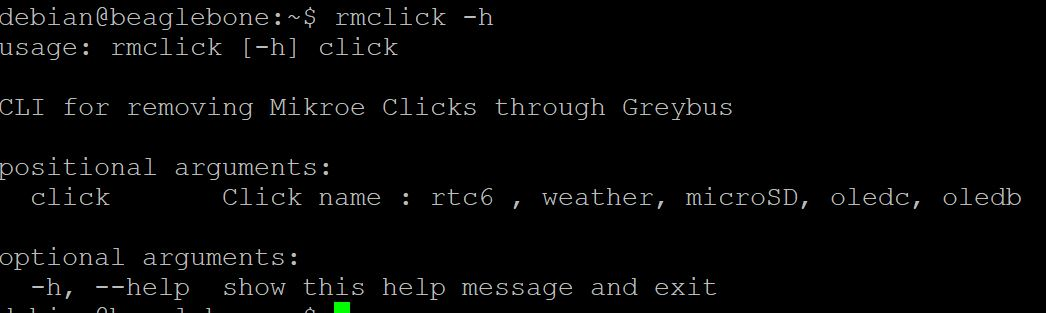
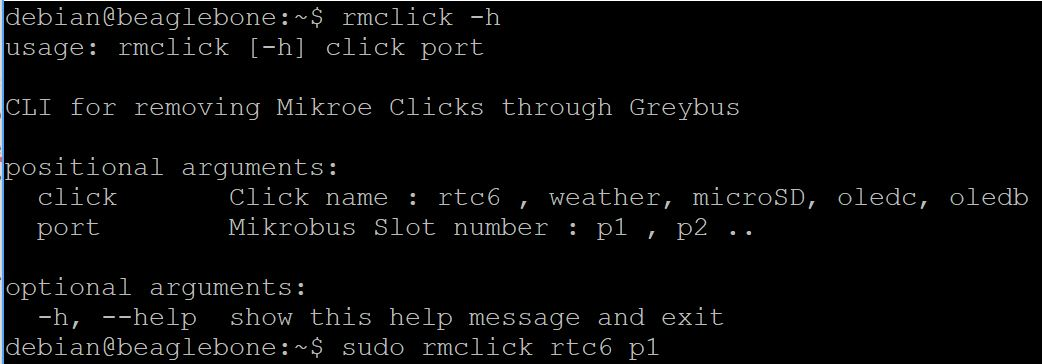
update documentation according to changes in gbsim

diff --git a/mpu9dof.html b/mpu9dof.html
@@ -108,29 +108,27 @@
                         Beaglebone Black, This post assumes that GBSIM is correctly installed and setup in your board.MPU 9DOF click carries the MPU–9250 System in Package, which is the world’s first 9-axis Motion Tracking device. MPU–9250 comprises two chips. One is the MPU–6050 that contains a 3-axis accelerometer, a 3-axis gyroscope, and a DMP (digital motion processor); the other is AK8975, a 3-axis digital compass. It is designed for the low power, low cost, and high-performance requirements of consumer electronics equipment and wearable sensors. 
                         <h3>Start GBSIM</h3>
     
-                        <p> Before inserting the click manifest start gbsim wither using the start script or by separately modprobe the modules and running gbsim.</p>
+                        <p> Before inserting the click manifest start gbsim(if not already running as service) whether using the start script or by separately modprobe the modules and running gbsim.</p>
 
-<pre><code>sudo sh startgbsim.sh</code></pre>
+<pre><code>sudo startgbsim</code></pre>
 
 <h3>Insert the Click Manifest using the CLI</h3>
 <p>Clone and setup the insclick CLI along with the manifesto tool and create the manifest blobs</p>
 
 <pre><code>git clone https://github.com/vaishnav98/manifesto.git
- cd manifesto
-./manifesto -o manifests/i2c1.mnfb manifests/i2c1.mnfs
-./manifesto -o manifests/gpio.mnfb manifests/gpio.mnfs
-./manifesto -o manifests/i2c2.mnfb manifests/i2c2.mnfs
-sudo cp manifests/i2c1.mnfb /tmp/gbsim/hotplug-module/
-sudo cp manifests/gpio.mnfb /tmp/gbsim/hotplug-module/</code></pre>
+cd manifesto
+sudo sh ./install.sh</code></pre>
 
 <h3>Clone and Compile the Mikrobus Kernel Module</h3>
-<p>Clone and setup the  Mikrobus Kernel Module , connect the click to the corresponding slot and instantiate the mpu9dof click on the greybus i2c bus</p>
+<p>Clone and setup the  Mikrobus Kernel Module </p>
 
 <pre><code>git clone https://github.com/vaishnav98/mikrobus_device.git
  cd mikrobus_device
- make -C /usr/src/linux-headers-4.14.108-ti-r108/ M=$PWD
- sudo insmod mikrobus.ko
- sudo insmod mikrobus_i2c_device.ko name=mpu9dof port=PBP1</code></pre>
+ make all install</code></pre>
+
+ <p> Now Connect the Click Board to the corresponding slot and then using the insclick CLI the click can be easily interfaced</p>
+
+<pre><code>sudo insclick mpu9dof p1</code></pre>
 
 <h3>Output</h3>
 
@@ -151,6 +149,14 @@ cat /sys/bus/iio/devices/iio\:device1/in_temp_raw</code></pre>
 The output should be similar to this: 
 <img src="images/post/mpuout.JPG" alt="">
 
+<h3>Unloading the Click</h3>
+
+
+<p>The rmclick utility/command can be used to remove/free the Greybus Interface and Unload the Click, the rmclick usage is: </p>
+<img src="images/post/rmclickusage.JPG" alt="">
+<p> The oledc click can be removed by running the following command:</p>
+
+<pre><code>sudo rmclick mpu9dof p1</code></pre>
 </div> <!-- end entry content -->
                 </article> <!-- end column large-full entry-->
            

diff --git a/oledc.html b/oledc.html
@@ -104,23 +104,23 @@
                     <div class="entry__content">
 
                         <p class="lead drop-cap">
-                        This post contains a basic test demonstration for the work in progress spi based OLEDC click support through greybus, This post assumes that GBSIM is correctly installed and setup in your board.OLED C click is equipped with the 96x96 high-color OLED display. It can display up to 65K/262K different colors and shades on a compact size display, based on the OLED technology. The OLED technology provides a very good brightness-to-contrast ratio, doesn’t require any backlight - since the pixel elements emit light on their own, better angle of viewing - compared to traditional TFT screens, better power consumption, better picture quality, better response times and more.
+                        This post contains a basic test demonstration for the spi based OLEDC click support through greybus, This post assumes that GBSIM is correctly installed and setup in your board.OLED C click is equipped with the 96x96 high-color OLED display. It can display up to 65K/262K different colors and shades on a compact size display, based on the OLED technology. The OLED technology provides a very good brightness-to-contrast ratio, doesn’t require any backlight - since the pixel elements emit light on their own, better angle of viewing - compared to traditional TFT screens, better power consumption, better picture quality, better response times and more.
                         <h3>Start GBSIM</h3>
     
-                        <p> Before inserting the click manifest start gbsim wither using the start script or by separately modprobe the modules and running gbsim.</p>
+                        <p> Before inserting the click manifest start gbsim(if not already running as service) whether using the start script or by separately modprobe the modules and running gbsim.</p>
 
-<pre><code>sudo sh startgbsim.sh</code></pre>
+<pre><code>sudo startgbsim</code></pre>
 
 <h3>Insert the Click Manifest using the CLI</h3>
 <p>Clone and setup the insclick CLI along with the manifesto tool and create the manifest blobs</p>
 
 <pre><code>git clone https://github.com/vaishnav98/manifesto.git
- cd manifesto
-./manifesto -o manifests/oled.mnfb manifests/oled.mnfs</code></pre>
+cd manifesto
+sudo sh ./install.sh</code></pre>    
 
 <p> Now Connect the Click Board to the corresponding slot and then using the insclick CLI the click can be easily interfaced</p>
 
-<pre><code>sudo ./insclick oledc p1</code></pre>
+<pre><code>sudo insclick oledc p1</code></pre>
 <h3>Output</h3>
 
 
@@ -146,7 +146,7 @@ The input and output after displaying an image on the OLEDC Click is:
 <img src="images/post/rmclickusage.JPG" alt="">
 <p> The oledc click can be removed by running the following command:</p>
 
-<pre><code>sudo ./rmclick oledc</code></pre>
+<pre><code>sudo rmclick oledc p1</code></pre>
 
 
 </div> <!-- end entry content -->

diff --git a/techlab.html b/techlab.html
@@ -127,31 +127,28 @@ sudo reboot</code></pre>
 <p>and then perform the above installation Instructions</p>
                         <h3>Start GBSIM</h3>
     
-                        <p> Before inserting the click manifest start gbsim whether using the start script or by separately modprobe the modules and running gbsim.</p>
+                        <p> Before inserting the click manifest start gbsim(if not already running as service) whether using the start script or by separately modprobe the modules and running gbsim.</p>
 
-<pre><code>sudo sh startgbsim.sh</code></pre>
+<pre><code>sudo startgbsim</code></pre>
 
 <h3>Insert the Click Manifest using the CLI</h3>
 
 <p>Clone and setup the insclick CLI along with the manifesto tool and create the manifest blobs</p>
 
 <pre><code>git clone https://github.com/vaishnav98/manifesto.git
- cd manifesto
-./manifesto -o manifests/i2c1.mnfb manifests/i2c1.mnfs
-./manifesto -o manifests/i2c2.mnfb manifests/i2c2.mnfs</code></pre>
+cd manifesto
+sudo sh ./install.sh</code></pre>
 
 <p> Now Connect the Click Board to the Techlab Cape Mikrobus slot and then using the insclick CLI the click can be easily interfaced</p>
 <p>For RTC 6 Click</p>
-<pre><code>sudo python ./insclick rtc6 p1</code></pre>
+<pre><code>sudo insclick rtc6 p1</code></pre>
 <p>For Weather Click</p>
-<pre><code>sudo python ./insclick weather p1</code></pre>
+<pre><code>sudo insclick weather p1</code></pre>
 <p>The Command Line Utility Usage is : </p>
 <img src="images/post/clickusage.JPG" alt="">
 
 <p>Here the argument `port` corresponds to the slot in which the click is connected , the PocketBeagle Mikrobus position 1(Techlab Cape Mikrobus Slot) and Beaglebone Mikrobus Cape Position 1 corresponds to p1,
         the PocketBeagle Mikrobus position 2 and Beaglebone Mikrobus Cape Position 2 corresponds to p2, p3 and p4 corresponds to the slots 3 and 4 in the Beaglebone Mikrobus Cape
-        The CLI also supports g1 and g2 slots which corresponds to the I2C and UART grove ports on the Seedstudio Beaglebone Green.
-
 <br>
 The argument `click` corresponds to the click name , for example `rtc6` `weather` etc.
 </p>
@@ -184,6 +181,15 @@ The dmesg log output should be similar to this:
 cat /sys/bus/iio/devices/iio\:device1/in_temp_input
 cat /sys/bus/iio/devices/iio\:device1/in_pressure_input</code></pre>
 
+<h3>Unloading the Click</h3>
+
+
+<p>The rmclick utility/command can be used to remove/free the Greybus Interface and Unload the Click, the rmclick usage is: </p>
+<img src="images/post/rmclickusage.JPG" alt="">
+<p> The rtc6 click can be removed by running the following command:</p>
+
+<pre><code>sudo rmclick rtc6 p1</code></pre>
+<pre><code>sudo rmclick weather p1</code></pre>
 
 </div> <!-- end entry content -->
                 </article> <!-- end column large-full entry-->

diff --git a/oledb.html b/oledb.html
@@ -104,23 +104,24 @@
                     <div class="entry__content">
 
                         <p class="lead drop-cap">
-                        This post contains a basic test demonstration for the work in progress spi based OLED B click support through greybus, This post assumes that GBSIM is correctly installed and setup in your board.OLED B click carries a 96 x 39px blue monochrome passive matrix OLED display. The display is bright, has a wide viewing angle and low power consumption. To drive the display, OLED B click features an SSD1306 controller. It's built-in functionalities include contrast control, normal or inverse image display, vertical and horizontal scrolling functions and more.
+                        This post contains a basic test demonstration for the spi based OLED B click support through greybus, This post assumes that GBSIM is correctly installed and setup in your board.OLED B click carries a 96 x 39px blue monochrome passive matrix OLED display. The display is bright, has a wide viewing angle and low power consumption. To drive the display, OLED B click features an SSD1306 controller. It's built-in functionalities include contrast control, normal or inverse image display, vertical and horizontal scrolling functions and more.
                         <h3>Start GBSIM</h3>
     
-                        <p> Before inserting the click manifest start gbsim whether using the start script or by separately modprobe the modules and running gbsim.</p>
+                        <p> Before inserting the click manifest start gbsim(if not already running as service) whether using the start script or by separately modprobe the modules and running gbsim.</p>
 
-<pre><code>sudo sh startgbsim.sh</code></pre>
+<pre><code>sudo startgbsim</code></pre>
 
 <h3>Insert the Click Manifest using the CLI</h3>
 <p>Clone and setup the insclick CLI along with the manifesto tool and create the manifest blobs</p>
 
+
 <pre><code>git clone https://github.com/vaishnav98/manifesto.git
- cd manifesto
-./manifesto -o manifests/oled.mnfb manifests/oled.mnfs</code></pre>
+cd manifesto
+sudo sh ./install.sh</code></pre>
 
 <p> Now Connect the Click Board to the corresponding slot and then using the insclick CLI the click can be easily interfaced</p>
 
-<pre><code>sudo ./insclick oledb p1</code></pre>
+<pre><code>sudo insclick oledb p1</code></pre>
 <h3>Output</h3>
 
 
@@ -148,7 +149,7 @@ The input and output after displaying a piece of text on the OLEDB Click is:
 <img src="images/post/rmclickusage.JPG" alt="">
 <p> The oledc click can be removed by running the following command:</p>
 
-<pre><code>sudo ./rmclick oledb</code></pre>
+<pre><code>sudo rmclick oledb p1</code></pre>
 
 
 </div> <!-- end entry content -->

diff --git a/rtc.html b/rtc.html
@@ -109,28 +109,25 @@
 
                         <h3>Start GBSIM</h3>
     
-                        <p> Before inserting the click manifest start gbsim wither using the start script or by separately modprobe the modules and running gbsim.</p>
+                        <p> Before inserting the click manifest start gbsim(if not already running as service) wither using the start script or by separately modprobe the modules and running gbsim.</p>
 
-<pre><code>sudo sh startgbsim.sh</code></pre>
+<pre><code>sudo startgbsim</code></pre>
 
 <h3>Insert the Click Manifest using the CLI</h3>
 <p>Clone and setup the insclick CLI along with the manifesto tool and create the manifest blobs</p>
 
 <pre><code>git clone https://github.com/vaishnav98/manifesto.git
- cd manifesto
-./manifesto -o manifests/i2c1.mnfb manifests/i2c1.mnfs
-./manifesto -o manifests/i2c2.mnfb manifests/i2c2.mnfs</code></pre>
+cd manifesto
+sudo sh ./install.sh</code></pre>
 
 <p> Now Connect the Click Board to the corresponding slot and then using the insclick CLI the click can be easily interfaced</p>
 
-<pre><code>sudo python ./insclick rtc6 p1</code></pre>
+<pre><code>sudo insclick rtc6 p1</code></pre>
 <p>The Command Line Utility Usage is : </p>
 <img src="images/post/clickusage.JPG" alt="">
 
 <p>Here the argument `port` corresponds to the slot in which the click is connected , the PocketBeagle Mikrobus position 1 and Beaglebone Mikrobus Cape Position 1 corresponds to p1,
         the PocketBeagle Mikrobus position 2 and Beaglebone Mikrobus Cape Position 2 corresponds to p2, p3 and p4 corresponds to the slots 3 and 4 in the Beaglebone Mikrobus Cape
-        The CLI also supports g1 and g2 slots which corresponds to the I2C and UART grove ports on the Seedstudio Beaglebone Green.
-
 <br>
 The argument `click` corresponds to the click name , for example `rtc6` `weather` etc.
 </p>
@@ -158,7 +155,7 @@ cat /sys/class/rtc/rtc1/since_epoch  ;to get the number of seconds that have ela
 <img src="images/post/rmclickusage.JPG" alt="">
 <p> The rtc6 click can be removed by running the following command:</p>
 
-<pre><code>sudo ./rmclick rtc6</code></pre>
+<pre><code>sudo rmclick rtc6 p1</code></pre>
 
 </div> <!-- end entry content -->
                 </article> <!-- end column large-full entry-->

diff --git a/weather.html b/weather.html
@@ -109,27 +109,25 @@
 
                         <h3>Start GBSIM</h3>
     
-                        <p> Before inserting the click manifest start gbsim wither using the start script or by separately modprobe the modules and running gbsim.</p>
+                        <p> Before inserting the click manifest start gbsim(if not already running as service) whether using the start script or by separately modprobe the modules and running gbsim.</p>
 
-<pre><code>sudo sh startgbsim.sh</code></pre>
+<pre><code>sudo startgbsim</code></pre>
 
 <h3>Insert the Click Manifest using the CLI</h3>
 <p>Clone and setup the insclick CLI along with the manifesto tool and create the manifest blobs</p>
 
 <pre><code>git clone https://github.com/vaishnav98/manifesto.git
- cd manifesto
-./manifesto -o manifests/i2c1.mnfb manifests/i2c1.mnfs
-./manifesto -o manifests/i2c2.mnfb manifests/i2c2.mnfs</code></pre>
+cd manifesto
+sudo sh ./install.sh</code></pre>
 
 <p> Now Connect the Click Board to the corresponding slot and then using the insclick CLI the click can be easily interfaced</p>
 
-<pre><code>sudo python ./insclick weather p1</code></pre>
+<pre><code>sudo insclick weather p1</code></pre>
 <p>The Command Line Utility Usage is : </p>
 <img src="images/post/clickusage.JPG" alt="">
 
 <p>Here the argument port corresponds to the slot in which the click is connected , the PocketBeagle Mikrobus position 1 and Beaglebone Mikrobus Cape Position 1 corresponds to p1,
         the PocketBeagle Mikrobus position 2 and Beaglebone Mikrobus Cape Position 2 corresponds to p2, p3 and p4 corresponds to the slots 3 and 4 in the Beaglebone Mikrobus Cape
-        The CLI also supports g1 and g2 slots which corresponds to the I2C and UART grove ports on the Seedstudio Beaglebone Green.
 
 <br>
 The argument click corresponds to the click name , for example `weather` `rtc6` etc.
@@ -157,7 +155,7 @@ cat /sys/bus/iio/devices/iio\:device1/in_pressure_input</code></pre>
 <img src="images/post/rmclickusage.JPG" alt="">
 <p> The weather click can be removed by running the following command:</p>
 
-<pre><code>sudo ./rmclick weather</code></pre>
+<pre><code>sudo rmclick weather p1</code></pre>
 
 </div> <!-- end entry content -->
                 </article> <!-- end column large-full entry-->

diff --git a/installgbsim.html b/installgbsim.html
@@ -116,8 +116,14 @@ BeagleBoard.org Debian Image 2018-10-07</code></pre>
 git pull
 sudo ./update_kernel.sh
 sudo reboot</code></pre>
+<h3>Installing GBSIM using the installation script</h3>
+An installation script has been provided with GBSIM for easy installation and setting it up as a startup service, for installing the gbsim and other dependencies perform the following commands:
 
+<pre><code>git clone https://github.com/vaishnav98/gbsim.git
+cd gbsim
+sudo ./install.sh</code></pre>
 
+<h2>Installing GBSIM Manually</h2>
 
                         <h3>Install Dependencies and Kernel Headers</h3>
     
@@ -158,7 +164,7 @@ make install</code></pre>
 
 <pre><code>mkdir dummy_hcd
 cd dummy_hcd
-wget https://raw.githubusercontent.com/beagleboard/linux/4.14/drivers/usb/gadget/udc/dummy_hcd.c
+wget https://raw.githubusercontent.com/vaishnav98/linux/4.14/drivers/usb/gadget/udc/dummy_hcd.c
 nano Makefile
 
 obj-m+=dummy_hcd.o
@@ -167,7 +173,9 @@ all:
 clean:
         make -C /lib/modules/$(shell uname -r)/build/ M=$(PWD) clean
 
-make</code></pre>
+make
+sudo cp dummy_hcd.ko /lib/modules/`uname -r`/kernel/drivers/usb/gadget/legacy/
+sudo depmod</code></pre>
 
 <h3>Running the GBSIM</h3>
 <p>The path to hotplug-module directory is the root directory which conatins the hotplug-module directory</p>
@@ -181,8 +189,9 @@ sudo modprobe gb-uart
 modprobe configfs
 sudo mount -t configfs none /sys/kernel/config
 modprobe libcomposite
-sudo insmod /path/to/dummy_hcd/dummy_hcd.ko
-sudo gbsim -h /path/to/hotplug-module -b -i 1 -v</code></pre>
+sudo modprobe dummy_hcd num=1(Number of Mikrobus Ports 1-4)
+mkdir -p /tmp/gbsim0/hotplug-module	
+gbsim -g 0 -h /tmp/gbsim0/ -c 0 -s 1 -i 1</code></pre>
 <p>The output should be similar to this: </p>
 <img src="images/post/gbus1.png" alt="">
 
@@ -192,7 +201,7 @@ sudo gbsim -h /path/to/hotplug-module -b -i 1 -v</code></pre>
 
 <pre><code>git clone https://github.com/projectara/manifesto.git
 cd manifesto
-./manifesto -o manifestblobname.mnfb examples/IID1-simple-i2c-module.mnfs
+./manifesto -o manifestblobname.mnfb manifests/gpio.mnfs
 cp ./manifestblobname.mnfb /path/to/hotplug-module/
 </code></pre>
 <p>The output should be similar to this: </p>

diff --git a/tlabexamples.html b/tlabexamples.html
@@ -108,9 +108,9 @@
                         
                         <h3>Start GBSIM</h3>
     
-                        <p> Before starting to load the clicks and running the examples, start gbsim whether using the start script or by separately modprobe the modules and running gbsim.</p>
+                        <p> Before starting to load the clicks and running the examples, start gbsim(if not already running as service) whether using the start script or by separately modprobe the modules and running gbsim.</p>
 
-<pre><code>sudo sh startgbsim.sh</code></pre>
+<pre><code>sudo startgbsim</code></pre>
 
 <h3>Clone the Examples Repository</h3>
 
@@ -144,7 +144,7 @@ python main.py</code></pre>
 
 <p>After trying out the example unload the click using the rmclick Utility: </p>
 <p> The oledc click can be removed by running the following command:</p>
-<pre><code>sudo ./rmclick oledc</code></pre>
+<pre><code>sudo rmclick oledc p1</code></pre>
 
 <h3>OLED B Click Example</h3>
 
@@ -171,7 +171,7 @@ sudo python main.py</code></pre>
 
 <p>After trying out the example unload the click using the rmclick Utility: </p>
 <p> The oledb click can be removed by running the following command:</p>
-<pre><code>sudo ./rmclick oledb</code></pre>
+<pre><code>sudo rmclick oledb p1</code></pre>
 
 <h3>RTC 6 Click Example</h3>
 
@@ -198,7 +198,7 @@ sudo python main.py</code></pre>
 
 <p>After trying out the example unload the click using the rmclick Utility: </p>
 <p> The rtc6 click can be removed by running the following command:</p>
-<pre><code>sudo ./rmclick rtc6</code></pre>
+<pre><code>sudo rmclick rtc6 p1</code></pre>
 
 </div> <!-- end entry content -->
                 </article> <!-- end column large-full entry-->
